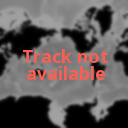
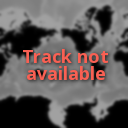
Tweak UX
1. Delay imgmap resizing slightly so mobiles get the resize benefits,
   even w/slow CSS load.
2. More generic JS so event handling works for lower IEs.
3. Better "Track not available" thumb w/drop shadow.
4. handheld.css tweaks so "switch to full style" target is easier to hit
   and page isn't 1px too wide.

diff --git a/pycchdo/static/js/base.js b/pycchdo/static/js/base.js
@@ -13,6 +13,28 @@ window.log = function(){
 (function(b){function c(){}for(var d="assert,count,debug,dir,dirxml,error,exception,group,groupCollapsed,groupEnd,info,log,timeStamp,profile,profileEnd,time,timeEnd,trace,warn".split(","),a;a=d.pop();){b[a]=b[a]||c}})((function(){try
 {console.log();return window.console;}catch(err){return window.console={};}})());
 
+function addEvent(obj, evt, fn) {
+  if (obj.addEventListener) {
+    obj.addEventListener(evt, fn, false);
+  } else if (obj.attachEvent) {
+    obj.attachEvent('on' + evt, fn);
+  }
+}
+function removeEvent(obj, evt, fn) {
+  if (obj.removeEventListener) {
+    obj.removeEventListener(evt, fn, false);
+  } else if (obj.attachEvent) {
+    obj.detachEvent('on' + evt, fn);
+  }
+}
+function addEventOnce(obj, evt, fn) {
+  function wrapper() {
+    fn.call(this, this.arguments);
+    removeEvent(obj, evt, wrapper);
+  }
+  addEvent(obj, evt, wrapper);
+}
+
 (function menuMods() {
   function has_class(e, c) {
     return e.className.indexOf(c) >= 0;
@@ -56,17 +78,14 @@ window.log = function(){
       }
     }
 
-    expander.onclick = toggle;
-    document.getElementById('picture').addEventListener('click', function (event) {
+    addEvent(expander, 'click', toggle);
+    addEvent(document.getElementById('picture'), 'click', function (event) {
       toggle();
-      if (event.preventDefault) {
-        event.preventDefault();
-      }
       if (event.stopPropagation) {
         event.stopPropagation();
       }
-    }, false);
-    ul.onclick = function (e) {
+    });
+    addEvent(ul, 'click', function (e) {
       var target;
       if (!e) {
         var e = window.event;
@@ -82,20 +101,19 @@ window.log = function(){
       if (e.stopPropagation) {
         e.stopPropagation();
       }
-    };
-    document.body.onclick = function () {
+    });
+    addEvent(document.body, 'click', function () {
       open(false);
-    };
+    });
     open(false);
 
     function addFlasher() {
-      ul.onmouseover = function () {
+      addEventOnce(ul, 'mouseover', function () {
         add_class(expander, 'lightup');
         setTimeout(function () {
           remove_class(expander, 'lightup');
         }, 500);
-        ul.onmouseover = function () {};
-      };
+      });
     }
 
     if (window.localStorage) {
@@ -117,20 +135,20 @@ window.log = function(){
         }
         f = f.parentNode;
       }
-      e.onfocus = function () {
+      addEvent(e, 'focus', function () {
         menuOpen(true);
         for (var i = 0; i < lis.length; i++) {
           add_class(lis[i], 'focus');
         }
         add_class(e, 'focus');
-      };
-      e.onblur = function () {
+      });
+      addEvent(e, 'blur', function () {
         menuOpen(false);
         for (var i = 0; i < lis.length; i++) {
           remove_class(lis[i], 'focus');
         }
         remove_class(e, 'focus');
-      };
+      });
     }
     function walkFor(root, tagname, callback) {
       for (var i = 0; i < root.children.length; i++) {
@@ -145,7 +163,7 @@ window.log = function(){
     });
   })();
 })();
-(function useability() {
+(function defaultFocus() {
   document.getElementById('query').focus();
 })();
 (function imgmap_mobile_toggle() {
@@ -228,9 +246,12 @@ window.log = function(){
     ims.push(im);
   }
   function resizeImgMaps() {
-    _map(function () { this.resize(); }, ims);
+    // Breathe for half a second so the style settles
+    // FIXME Find a better way. Resize when detected image size change?
+    setTimeout(function () {
+      _map(function () { this.resize(); }, ims);
+    }, 500);
   }
-  resizeImgMaps();
 
 // mobileToggle
   var links = document.getElementsByTagName('link');
@@ -255,7 +276,7 @@ window.log = function(){
 
   var link_mobile = document.getElementById('screensize-mobile');
   var link_full = document.getElementById('screensize-full');
-  link_mobile.onclick = function () {
+  function clickLinkMobile() {
     for (var i = 0; i < mobile_links.length; i++) {
       var link = mobile_links[i];
       link.href = link.data_href;
@@ -271,8 +292,9 @@ window.log = function(){
     }
     resizeImgMaps();
     return false;
-  };
-  link_full.onclick = function () {
+  }
+  addEvent(link_mobile, 'click', clickLinkMobile);
+  function clickLinkFull() {
     for (var i = 0; i < mobile_links.length; i++) {
       var link = mobile_links[i];
       link.href = '';
@@ -288,15 +310,20 @@ window.log = function(){
     }
     resizeImgMaps();
     return false;
-  };
-  if (window.sessionStorage) {
-    var pin_large_screen = window.sessionStorage.getItem('pin_large_screen');
-    if (pin_large_screen == '1') {
-      link_full.onclick();
-    } else if (pin_large_screen == '0') {
-      link_mobile.onclick();
-    }
   }
+  addEvent(link_full, 'click', clickLinkFull);
+  addEvent(window, 'load', function () {
+    if (window.sessionStorage) {
+      var pin_large_screen = window.sessionStorage.getItem('pin_large_screen');
+      if (pin_large_screen == '1') {
+        clickLinkFull();
+      } else if (pin_large_screen == '0') {
+        clickLinkMobile();
+      }
+    } else {
+      resizeImgMaps();
+    }
+  });
 })();
 (function rotateBanner() {
   if (window.localStorage) {
@@ -329,35 +356,35 @@ window.log = function(){
 
     var dragthresh = 500;
     var start;
-    picdom.addEventListener('mousedown', function (event) {
+    addEvent(picdom, 'mousedown', function (event) {
       start = event.clientX;
-    }, false);
-    picdom.addEventListener('mouseup', function (event) {
+    });
+    addEvent(picdom, 'mouseup', function (event) {
       if (Math.abs(event.clientX - start) >= dragthresh) {
         toggleBanner();
       }
-    }, false);
-    picdom.addEventListener('touchstart', function (event) {
+    });
+    addEvent(picdom, 'touchstart', function (event) {
       if (event && event.changedTouches && event.changedTouches.length > 0) {
         start = event.changedTouches[0].clientX;
       }
-    }, false);
-    picdom.addEventListener('touchmove', function (event) {
+    });
+    addEvent(picdom, 'touchmove', function (event) {
       if (event && event.changedTouches && event.changedTouches.length > 0) {
         end = event.changedTouches[0].clientX;
         if (Math.abs(end - start) < dragthresh) {
           event.preventDefault();
         }
       }
-    }, false);
-    picdom.addEventListener('touchend', function (event) {
+    });
+    addEvent(picdom, 'touchend', function (event) {
       if (event && event.changedTouches && event.changedTouches.length > 0) {
         end = event.changedTouches[0].clientX;
         if (Math.abs(end - start) >= dragthresh) {
           toggleBanner();
         }
       }
-    }, false);
+    });
   }
 
   var supportTransition = (function () {
@@ -397,7 +424,8 @@ window.log = function(){
     s.zIndex = v;
   }
 
-  function rotator(domobjA, domobjB, num_banners, zs, delay, animateTime, offset, height) {
+  function rotator(domobjA, domobjB, num_banners, zs, delay, animateTime,
+                   offset, height) {
     this.zs = defaultTo(zs, [100, 99]);
     this.delay = defaultTo(delay, 1000 * 10);
     this.animateTime = defaultTo(animateTime, 1000 * 3);
@@ -430,8 +458,10 @@ window.log = function(){
     this.styleB.backgroundSize = bgSize;
 
     if (supportTransition) {
-      this.styleA[supportTransition] = 'opacity ' + this.animateTime / 1000 + 's linear';
-      this.styleB[supportTransition] = 'opacity ' + this.animateTime / 1000 + 's linear';
+      this.styleA[supportTransition] = 
+        'opacity ' + this.animateTime / 1000 + 's linear';
+      this.styleB[supportTransition] =
+        'opacity ' + this.animateTime / 1000 + 's linear';
     }
   }
 
@@ -512,6 +542,10 @@ window.log = function(){
     return this.offset - this.height;
   };
 
+  rotator.prototype.next = function () {
+    this.animate(this.nextOffset());
+  }
+
   rotator.prototype.start = function () {
     var self = this;
     var timer = null;
@@ -520,7 +554,7 @@ window.log = function(){
       if (timer) {
         clearTimeout(timer);
         if (!self.shouldStop) {
-          self.animate(self.nextOffset());
+          self.next();
         }
       }
       if (!self.shouldStop) {

diff --git a/pycchdo/static/css/handheld.css b/pycchdo/static/css/handheld.css
@@ -99,14 +99,14 @@ ul, ol, p {
 #gfooter {
   border-top: 1px solid #DDDDDD;
 }
-#gfooter #screensize #screensize-full,
-#gfooter #screensize #screensize-mobile {
+#gfooter #screensize #screensize-full {
   float: none;
   display: block;
-  margin: 0;
-
+  margin: 0 0 1.5em 0;
   text-align: center;
+  border: 0;
   padding: 0.5em 0.2em;
+  background: #EEE;
 }
 #gfooter #screensize #screensize-mobile {
   display: none;
@@ -133,6 +133,7 @@ ul, ol, p {
   margin: 0;
 }
 .boxed > h1 {
+  margin: 0;
   background: none;
 }
 .boxed .box_content {
@@ -160,12 +161,12 @@ ul, ol, p {
   float: none;
 }
 #geo_search #basin,
-#geo_search #search_map {
+#geo_search #search_map_ad {
   float: none;
   margin: auto;
 }
 #basin_selector_map img,
-#geo_search #search_map img {
+#search_map_ad img {
   width: 100%;
 }
 #geo_search h2 {

diff --git a/pycchdo/static/css/home.css b/pycchdo/static/css/home.css
@@ -39,12 +39,9 @@
   float: left;
   margin-left: 0.5em;
 }
-#geo_search #search_map {
+#geo_search #search_map_ad {
   float: right;
   margin-right: 0.5em;
-}
-#geo_search #search_map a {
-  border: none;
 }
 
 #rdev .box_content {

diff --git a/pycchdo/static/css/screen.css b/pycchdo/static/css/screen.css
@@ -70,6 +70,7 @@ p a:hover:visited, p .link.visited.hover {
 }
 .box_content #no_accounts a,
 .box_content .thumb a,
+#search_map_ad a,
 .box_content a.updates-available {
   border: none;
 }

diff --git a/pycchdo/static/css/static.css b/pycchdo/static/css/static.css
@@ -262,6 +262,7 @@
 .boxed.get h2 {
   font-size: 1.2em;
 }
+.boxed.get #search_map_ad,
 .boxed.get #basin_selector_map {
   margin: 0.5em;
 }

diff --git a/pycchdo/__init__.py b/pycchdo/__init__.py
@@ -270,6 +270,9 @@ def main(global_config, **settings):
     config.add_view('pycchdo.views.search_map.layer',
                     route_name='search_map_layer')
 
+    config.add_route('legacy_map_search', '/map_search')
+    config.add_view('pycchdo.views.legacy.map_search', route_name='legacy_map_search')
+
     # maintain legacy data_access
     route_for_path(config, 'parameter_descriptions',
                    '/parameter_descriptions.html',

diff --git a/pycchdo/views/legacy.py b/pycchdo/views/legacy.py
@@ -3,6 +3,11 @@ from pyramid.httpexceptions import HTTPMovedPermanently, HTTPNotFound
 import pycchdo.models as models
 
 
+def map_search(request):
+    return HTTPMovedPermanently(
+        location=request.route_path('search_map'))
+
+
 def basin(request):
     return HTTPMovedPermanently(
         location=request.route_path('basin_show',
